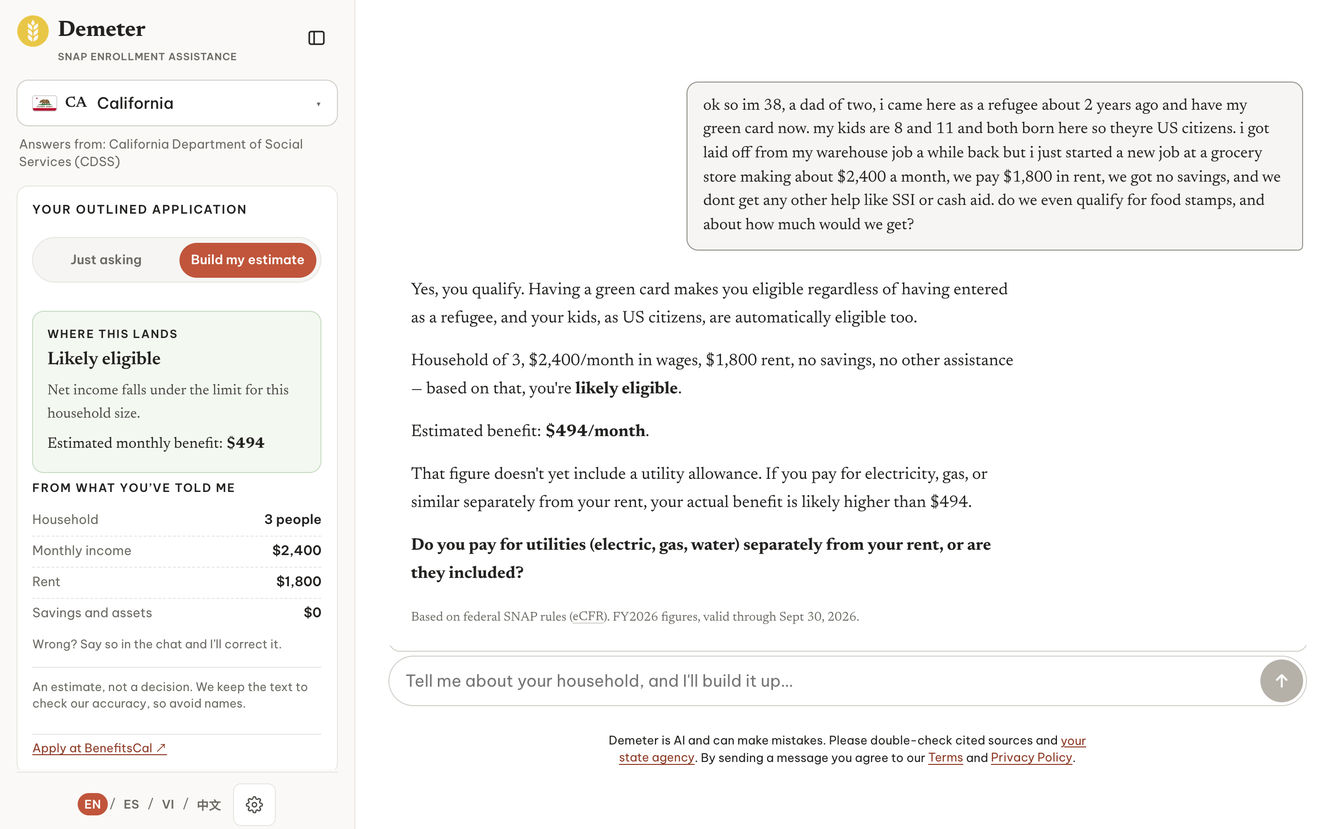
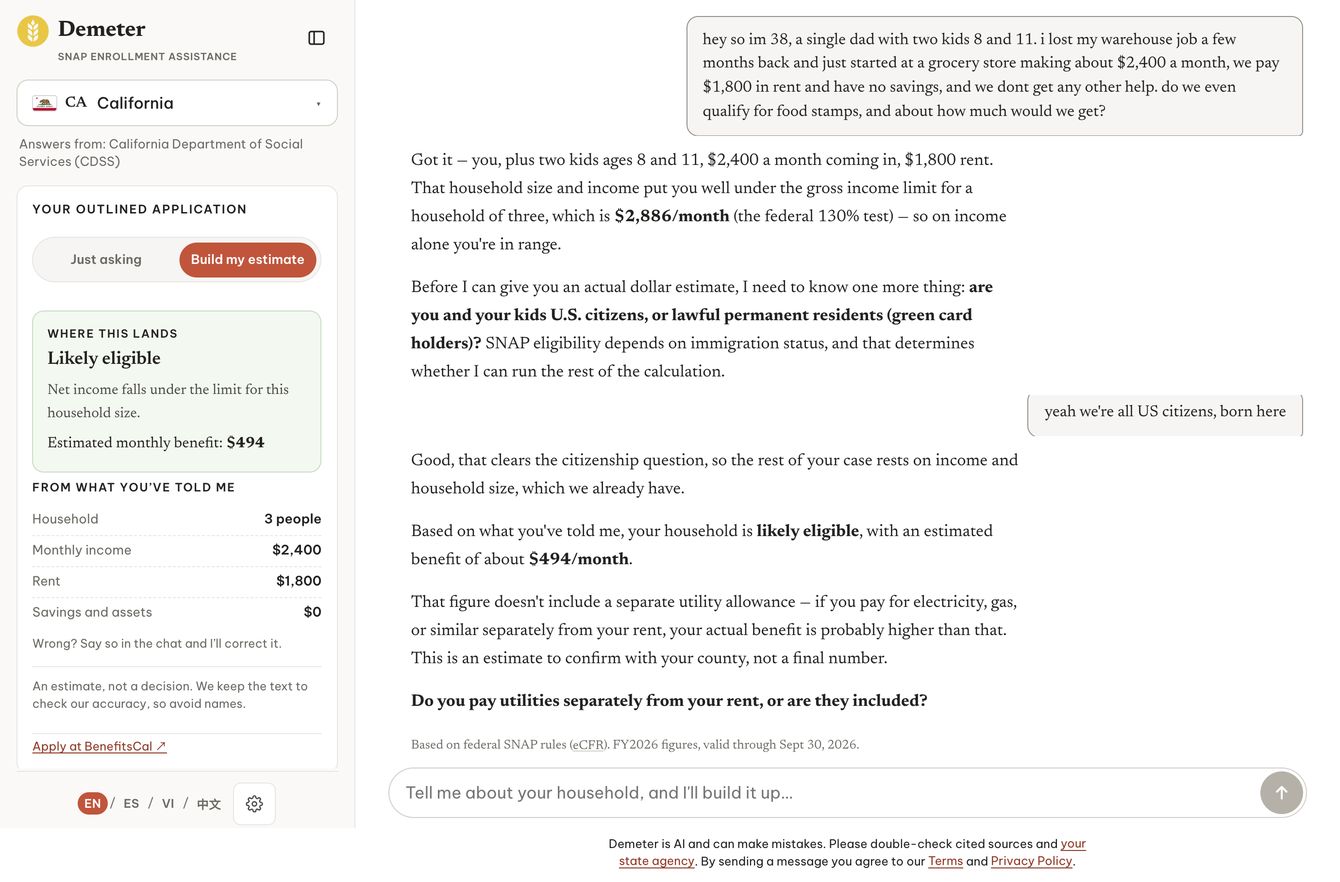
feat(cra-artifact): wage-only demo, full conversation, layout + copy polish
Page 3 demo recaptured as a WAGE-ONLY, all-US-citizen scenario (single dad,
grocery-store job) so it carries no H.R.1 noncitizen exposure. It shows the full
conversation — income reasoning ("well under the CA gross limit"), the honest
citizenship gate, and the Likely eligible + $494 answer — bordered, with an 8-item
intent legend that now also covers the running record ("From what you've told me")
and the guiding chat-bar prompt ("Guides the next answer").

Other polish across the deck:
- Page 1: larger PUMA neighborhood labels and a larger state locator; credit-
  outcome stats centered; footer trimmed by a line.
- Page 1 table: "Our ask" -> "Campaign funding ask".
- Page 2: sections respaced to use the full page (no bottom gap); colon before
  "the same service"; "submitted, accurate application".
- Page 4: quarterly-report rows given more row height.
- Global: tight em-dashes (no surrounding spaces) across template + inputs;
  page-3 title -> "The product, as delivered"; QR line no longer breaks mid-URL.

Note: a literal CERTAIN badge is intentionally not shown — the product's
confidence label is non-deterministic and does not co-occur cleanly with a good
estimate answer; the sourcing footer + calibration ("estimate to confirm") carry
the confidence signal honestly instead.

diff --git a/tools/cra-artifact/templates/artifact.html b/tools/cra-artifact/templates/artifact.html
@@ -1,5 +1,5 @@
 <!doctype html>
-<html><head><meta charset="utf-8"><title>[[org_name]] — [[bank_name]]</title>
+<html><head><meta charset="utf-8"><title>[[org_name]]—[[bank_name]]</title>
 <link rel="preconnect" href="https://fonts.googleapis.com">
 <link rel="preconnect" href="https://fonts.gstatic.com" crossorigin>
 <link href="https://fonts.googleapis.com/css2?family=Newsreader:opsz,wght@6..72,400;6..72,500;6..72,600&family=Be+Vietnam+Pro:wght@400;500;600&display=swap" rel="stylesheet">
@@ -27,7 +27,7 @@
   .pagefoot { border-top:1px solid var(--rule); margin-top:auto; padding-top:8px; font-size:6.8pt; line-height:1.5; color:var(--muted); }
   .pagenum { position:absolute; bottom:.18in; left:.7in; right:.7in; text-align:center; font-size:7pt; letter-spacing:.12em; color:var(--muted); }
 
-  /* ---------- Page 1 — the need ---------- */
+  /* ---------- Page 1—the need ---------- */
   /* body-zone fills the space between letterhead and footer and distributes the
      three blocks (head cluster, numbers, evidence) so slack spreads evenly
      instead of pooling at the bottom. */
@@ -72,7 +72,7 @@
   .geomap svg { width:100%; height:auto; display:block; }
   .geo-bars svg { width:100%; height:auto; display:block; }
   .geo-loc { display:flex; align-items:center; gap:7px; margin-top:5px; }
-  .geo-loc svg { width:92px; height:auto; flex:none; }
+  .geo-loc svg { width:124px; height:auto; flex:none; }
   .geo-loc span { font-size:6.6pt; line-height:1.35; color:var(--muted); }
   .geo-src { font-size:6.6pt; line-height:1.4; color:var(--muted); margin-top:5px; }
   /* Inside .aa-context the CDSS quotes are a sub-part of the geographic-focus
@@ -93,19 +93,19 @@
   /* Geographic focus + the CDSS evidence read as one assessment-area section:
      a single accent rule opens the group, both parts sit beneath it. */
   .aa-context { border-top:1.5px solid var(--accent); margin-top:8px; padding-top:7px; }
-  /* "What SNAP is" — plain explainer, its own section above the research box */
+  /* "What SNAP is"—plain explainer, its own section above the research box */
   .why { border-top:1.5px solid var(--accent); margin-top:9px; padding-top:8px; }
   .why-cap { font-size:7.8pt; letter-spacing:.09em; text-transform:uppercase; font-weight:600; color:var(--accent-deep); margin-bottom:5px; }
   .why p { font-family:'Newsreader',serif; font-size:11pt; line-height:1.4; color:var(--ink); max-width:6.7in; }
 
-  /* ---------- Page 2 — program + ask ---------- */
+  /* ---------- Page 2—program + ask ---------- */
   .cred { font-family:'Newsreader',serif; font-size:12.5pt; line-height:1.5; color:var(--ink); margin-top:14px; max-width:6.4in; }
   .thesis { font-family:'Newsreader',serif; font-size:11.5pt; line-height:1.34; color:var(--ink); margin-top:6px; max-width:6.7in; }
-  .body-block { font-size:10pt; line-height:1.48; color:var(--body); margin-top:8px; max-width:6.5in; }
+  .body-block { font-size:10pt; line-height:1.52; color:var(--body); margin-top:14px; max-width:6.5in; }
   .body-block h3 { font-family:'Newsreader',serif; font-size:13pt; font-weight:600; color:var(--ink); margin-bottom:4px; }
-  /* Provenance line — one quiet, substantiable statement of why the analysis
+  /* Provenance line—one quiet, substantiable statement of why the analysis
      here is Civica's own work (reviewer ask). No traction claim. */
-  .provenance { font-size:9pt; line-height:1.42; color:var(--body); margin-top:5px; max-width:6.5in; text-wrap:pretty; }
+  .provenance { font-size:9pt; line-height:1.46; color:var(--body); margin-top:15px; max-width:6.5in; text-wrap:pretty; }
   .body-block .run-in { color:var(--ink); font-weight:600; }
   .provenance b { color:var(--ink); font-weight:600; }
   /* Research aside: a shaded box marks it as supporting external evidence,
@@ -114,14 +114,14 @@
   .research { background:var(--tint); border:1px solid var(--rule); border-radius:3px; margin-top:9px; padding:8px 13px; }
   .research .rlabel { font-size:7.8pt; letter-spacing:.09em; text-transform:uppercase; color:var(--accent-deep); font-weight:600; }
   .rstats { display:flex; gap:.36in; margin-top:8px; }
-  .rstats > div { flex:1; }
+  .rstats > div { flex:1; text-align:center; }
   /* Subordinated: these are external research figures, not Civica's own
      outcomes, so the numerals sit below the page's need hero in weight. */
   .rstats b { display:block; font-family:'Newsreader',serif; font-size:13.5pt; font-weight:600; line-height:1; color:var(--body); font-variant-numeric:tabular-nums; }
   .rstats span { display:block; font-size:8pt; line-height:1.4; color:var(--muted); margin-top:6px; text-wrap:balance; }
   .rsrc { font-size:7.4pt; line-height:1.45; color:var(--muted); margin-top:9px; max-width:6.6in; }
-  .tiers { display:flex; gap:.22in; margin-top:5px; }
-  .tier { flex:1; border:1px solid var(--rule); border-top:3px solid var(--accent); border-radius:2px; padding:12px; }
+  .tiers { display:flex; gap:.22in; margin-top:17px; }
+  .tier { flex:1; border:1px solid var(--rule); border-top:3px solid var(--accent); border-radius:2px; padding:15px 12px; }
   .tier.lead { background:var(--tint); }
   .tier .name { font-size:8pt; letter-spacing:.08em; text-transform:uppercase; color:var(--muted); font-weight:600; }
   .tier .amt { font-family:'Newsreader',serif; font-size:15.5pt; font-weight:600; color:var(--ink); margin-top:3px; white-space:nowrap; }
@@ -132,7 +132,7 @@
   .close .close-line { font-family:'Newsreader',serif; font-size:12.5pt; font-weight:500; color:var(--ink); max-width:4.6in; line-height:1.3; }
   .close .who { font-size:9.5pt; color:var(--body); text-align:right; white-space:nowrap; }
   .brightline { font-size:8pt; color:var(--muted); max-width:6.6in; }
-  .crafile { border:1px solid var(--rule-strong); border-radius:2px; background:var(--tint); padding:6px 14px; margin-top:5px; }
+  .crafile { border:1px solid var(--rule-strong); border-radius:2px; background:var(--tint); padding:9px 14px; margin-top:16px; }
   .crafile-cap { font-size:7.8pt; letter-spacing:.09em; text-transform:uppercase; font-weight:600; color:var(--accent-deep); margin-bottom:5px; }
   .cra-dl { width:100%; border-collapse:collapse; }
   .cra-dl td { font-size:8.4pt; line-height:1.38; color:var(--body); padding:3px 0; vertical-align:middle; border-bottom:1px solid var(--rule); }
@@ -142,7 +142,7 @@
   /* page-3 projection banner */
   .projwarn { font-size:9pt; letter-spacing:.06em; text-transform:uppercase; font-weight:600; color:var(--accent-deep); margin-top:10px; }
 
-  /* ---------- Page 3 — appendix (PROJECTED sample + methodology) ---------- */
+  /* ---------- Page 3—appendix (PROJECTED sample + methodology) ---------- */
   .chip { display:inline-block; background:var(--accent); color:#fff; font-size:8pt; font-weight:600; letter-spacing:.08em; padding:3px 9px; border-radius:2px; text-transform:uppercase; vertical-align:middle; margin-left:8px; }
   .projected-wrap { position:relative; margin-top:9px; }
   /* projected sample table header reads as a tinted band; the "· projected"
@@ -153,7 +153,7 @@
   .funnel-note { font-size:8.8pt; line-height:1.4; color:var(--ink); font-weight:500; margin-top:5px; }
   table.report th { background:var(--tint); border-bottom:2px solid var(--rule-strong); font-size:8.4pt; font-weight:600; text-align:right; padding:5px 9px; color:var(--ink); }
   table.report th:first-child { text-align:left; }
-  table.report td { border-bottom:1px solid var(--rule); font-size:8.8pt; text-align:right; padding:2px 9px; }
+  table.report td { border-bottom:1px solid var(--rule); font-size:8.8pt; text-align:right; padding:4.5px 9px; }
   table.report td:first-child { text-align:left; color:var(--body); }
   table.report tbody tr:not(.band) td:first-child { padding-left:20px; }
   table.report tr.band td { background:var(--tint); font-size:7.2pt; letter-spacing:.07em; text-transform:uppercase; text-align:left; color:var(--muted); font-weight:600; padding:2.4px 9px; }
@@ -169,19 +169,19 @@
   .appx ul { list-style:none; margin-top:3px; }
   .appx li { margin-top:2px; padding-left:10px; position:relative; }
   .appx li::before { content:""; position:absolute; left:0; top:.55em; width:4px; height:4px; background:var(--accent); border-radius:50%; }
-  /* Plain framed callout (matches .crafile), not a left-accent card — the
+  /* Plain framed callout (matches .crafile), not a left-accent card—the
      colored-left-rail card is a DEMETER-DESIGN AI-slop pattern. */
   .disclose { border:1px solid var(--rule-strong); border-radius:2px; background:var(--tint); padding:6px 11px; font-size:8.1pt; line-height:1.38; color:var(--body); margin-top:5px; text-wrap:pretty; }
   .disclose strong { color:var(--ink); }
-  /* Page 3 — the platform, as built (annotated real screenshot) */
+  /* Page 3—the platform, as built (annotated real screenshot) */
   .platform-hero { margin-top:6px; }
   /* The demo bleeds past the text column toward the page edges (the .page has a
-     .7in side margin) so it reads bigger; only the image bleeds — caption and
+     .7in side margin) so it reads bigger; only the image bleeds—caption and
      legend stay in the column. */
   .chatshot { position:relative; margin:0 -0.32in; }
-  .chatshot > img { width:100%; height:100%; display:block; border-radius:4px; object-fit:cover; }
+  .chatshot > img { width:100%; height:100%; display:block; border:1px solid var(--rule-strong); border-radius:5px; object-fit:cover; }
   /* Numbered markers sit ON the screenshot; the legend below explains the intent.
-     A crisp ring (border only — no blurred shadow, which a PDF rasterizes as a
+     A crisp ring (border only—no blurred shadow, which a PDF rasterizes as a
      gray square) keeps the badge circular on any background. */
   .chatshot .cmark { position:absolute; width:19px; height:19px; margin:-9.5px 0 0 -9.5px;
     border-radius:50%; background:var(--wheat); color:#3a2a08;
@@ -202,18 +202,19 @@
   .qrbox { display:flex; align-items:center; gap:9px; padding:7px 8px; border:1px solid var(--rule-strong); border-radius:3px; background:var(--tint); }
   .qrbox .qr { width:62px; flex:none; }
   .qrbox .qr svg { width:100%; height:auto; display:block; }
-  .qr-txt { font-size:8.2pt; line-height:1.35; color:var(--body); }
+  .qr-txt { font-size:7.8pt; line-height:1.4; color:var(--body); }
   .qr-txt strong { color:var(--ink); }
+  .qr-txt .url { white-space:nowrap; }
   .affil { margin-top:7px; font-size:8pt; line-height:1.4; color:var(--muted); text-wrap:pretty; }
 </style></head><body>
 
-<!-- PAGE 1 — the need -->
+<!-- PAGE 1—the need -->
 <div class="page">
   <div class="letterhead"><div class="org">[[org_name]] · [[program_name]]</div><div class="doc">Prepared for [[bank_name]] · [[prepared_date]]</div></div>
   <div class="body-zone">
     <div class="zone-head">
       <div class="big serif">[[headline_unenrolled]]</div>
-      <div class="head-sentence">eligible residents of <em>your assessment area</em> are not enrolled in [[program_ref]] &mdash; an estimated <em>[[benefit_range]] a year</em> in unclaimed federal nutrition dollars that would be spent in [[aa_label]] grocery stores.</div>
+      <div class="head-sentence">eligible residents of <em>your assessment area</em> are not enrolled in [[program_ref]]&mdash;an estimated <em>[[benefit_range]] a year</em> in unclaimed federal nutrition dollars that would be spent in [[aa_label]] grocery stores.</div>
       [[ratio_line]]
     </div>
     <div class="needrow">
@@ -223,14 +224,14 @@
           <tr><td class="k">Eligible residents (est.)</td><td class="v">[[eligible_fmt]]<small>income-eligible for SNAP</small></td></tr>
           <tr><td class="k">Eligible, not enrolled</td><td class="v">[[headline_unenrolled]]<small>[[aa_unenrolled_pct]]% at USDA's participation rate</small></td></tr>
           <tr><td class="k">Benefit per household</td><td class="v">$[[benefit_monthly]]/mo<small>per eligible household</small></td></tr>
-          <tr class="ask"><td class="k">Our ask</td><td class="v">$[[ask_fmt]]</td></tr>
+          <tr class="ask"><td class="k">Campaign funding ask</td><td class="v">$[[ask_fmt]]</td></tr>
         </table>
       </div>
       <div class="colbrk">[[aa_geo_visual]]</div>
     </div>
     <div class="why">
       <div class="why-cap">What SNAP is</div>
-      <p>SNAP &mdash; the Supplemental Nutrition Assistance Program, commonly known as food stamps &mdash; is monthly grocery money for low- and moderate-income households. Most people who qualify but never enroll are stopped by the process, not the rules. Civica's free assistant answers their questions in plain language and guides them through the application.</p>
+      <p>SNAP&mdash;the Supplemental Nutrition Assistance Program, commonly known as food stamps&mdash;is monthly grocery money for low- and moderate-income households. Most people who qualify but never enroll are stopped by the process, not the rules. Civica's free assistant answers their questions in plain language and guides them through the application.</p>
     </div>
     <div class="research">
       <div class="rlabel">SNAP access and household finances</div>
@@ -246,19 +247,19 @@
   <div class="pagenum">1 / 4</div>
 </div>
 
-<!-- PAGE 2 — the program + the ask -->
+<!-- PAGE 2—the program + the ask -->
 <div class="page">
   <div class="letterhead"><div class="org">[[org_name]] · [[program_name]]</div><div class="doc">Prepared for [[bank_name]] · [[prepared_date]]</div></div>
   <h2 class="pagehead">A benefits-access pilot for [[bank_name]]</h2>
   <div class="thesis">It combines the reach of a media campaign with the accuracy of a one-on-one assister, and every answer traces to the governing rule.</div>
-  <div class="body-block"><b class="run-in">The program.</b> Civica provides free [[program_ref]] application assistance across your assessment area, the same service a county-designated assister or food-bank navigator provides. Geo-targeted outreach invites residents in the highest-need tracts: "You may qualify for [[program_ref]]. Check in 5 minutes." The assistant answers from [[state_name]]'s SNAP rules and guides them to a submitted application. Because its marginal cost is near zero, a single grant covers the whole assessment area.
+  <div class="body-block"><b class="run-in">The program.</b> Civica provides free [[program_ref]] application assistance across your assessment area: the same service a county-designated assister or food-bank navigator provides. Geo-targeted outreach invites residents in the highest-need tracts: "You may qualify for [[program_ref]]. Check in 5 minutes." The assistant answers from [[state_name]]'s SNAP rules and guides them to a submitted, accurate application. Because its marginal cost is near zero, a single grant covers the whole assessment area.
   </div>
   <div class="provenance"><b>Why Civica.</b> [[credibility_line]]</div>
   [[bank_specific_block]]
   <div class="crafile">
     <div class="crafile-cap">For [[bank_name]]'s community-reinvestment file</div>
     <table class="cra-dl">
-      <tr><td class="l">Activity</td><td>[[program_ref]] benefits-access outreach and application assistance in your assessment area — a community-development activity (community services targeted to LMI individuals under [[cra_rule_cite]]). Funded as a grant, it is a qualified community-development investment, assessed under the investment test.</td></tr>
+      <tr><td class="l">Activity</td><td>[[program_ref]] benefits-access outreach and application assistance in your assessment area—a community-development activity (community services targeted to LMI individuals under [[cra_rule_cite]]). Funded as a grant, it is a qualified community-development investment, assessed under the investment test.</td></tr>
       <tr><td class="l">Beneficiaries</td><td>Low- and moderate-income residents. The federal Interagency Q&amp;A names USDA's Supplemental Nutrition Assistance programs as an accepted LMI proxy (Q&amp;A §&#8239;__.12(g)(2)&#8211;1; 81 FR 48506, 48526, July 25, 2016), so no household-level income documentation is required.</td></tr>
       <tr><td class="l">Geographic nexus</td><td>Delivered and measured within [[bank_name]]'s delineated assessment area, documented by county. Where banks share geography, we document a per-tract allocation, so nothing is double-counted.</td></tr>
       <tr><td class="l">Documentation</td><td>A quarterly report of ad delivery, eligibility checks, and applications started and submitted (all by county), plus a one-page qualification memo citing the CRA category and the governing rule, and an annual exam-file summary. Prepared for your file.</td></tr>
@@ -271,24 +272,24 @@
     <div class="tier"><div class="name">Program Grant</div><div class="amt">$30,000–50,000</div><div class="desc">Full coverage plus added depth and a year-end exam-file summary.</div></div>
   </div>
   <div class="close">
-    <div class="close-line">Let's book a 30-minute call to walk through the program, how the grant is applied, and the exam-file documentation. Reply with a few times that work this month.</div>
+    <div class="close-line">A 30-minute call covers the program, how the grant applies, and the exam-file documentation.</div>
     <div class="who">[[contact_name]], [[contact_title]]<br>[[contact_email]][[contact_phone_line]]</div>
   </div>
   <div class="pagenum">2 / 4</div>
 </div>
 
-<!-- PAGE 3 — the platform, as built (product evidence) -->
+<!-- PAGE 3—the platform, as built (product evidence) -->
 <div class="page">
   <div class="letterhead"><div class="org">[[org_name]] · [[program_name]]</div><div class="doc">Prepared for [[bank_name]] · [[prepared_date]]</div></div>
-  <h2 class="pagehead" style="margin-top:22px;">The platform, as built</h2>
-  <div class="thesis" style="margin-top:8px;">The working system behind the pilot &mdash; a rules-grounded assistant, not a general chatbot.</div>
+  <h2 class="pagehead" style="margin-top:22px;">The product, as delivered</h2>
+  <div class="thesis" style="margin-top:8px;">The working system behind the pilot&mdash;a rules-grounded assistant, not a general chatbot.</div>
   <div class="evidence-foot" style="border-top:none; margin-top:9px; padding-top:0;">
     <div class="ev-text">
-      <p><strong>Built-in limits.</strong> Makes no eligibility determination &mdash; routes decisions to the county or 2-1-1. Redacts personal data before it leaves the system; never asks for an SSN, DOB, or account number; carries crisis and DV lines. Resident data is never shared with the bank, no products are marketed, and question text auto-purges (7/30 days).</p>
+      <p><strong>Built-in limits.</strong> Makes no eligibility determination&mdash;routes decisions to the county or 2-1-1. Redacts personal data before it leaves the system; never asks for an SSN, DOB, or account number; carries crisis and DV lines. Resident data is never shared with the bank, no products are marketed, and question text auto-purges (7/30 days).</p>
       <p><strong>Independently checkable.</strong> A graded ~600-question set across all 53 jurisdictions (adversarial and crisis cases included), re-run on every rules change, and offered to your compliance team to run themselves. Corpus: eCFR plus 53 packs, dated provenance[[me_audit_clause]]; 120-day refresh.</p>
     </div>
     <div class="ev-side">
-      <div class="qrbox"><div class="qr">[[qr_chat_svg]]</div><div class="qr-txt"><strong>Try it.</strong> Scan, or<br>civica-applicant.vercel.app/chat</div></div>
+      <div class="qrbox"><div class="qr">[[qr_chat_svg]]</div><div class="qr-txt"><strong>Try it.</strong> Scan, or visit<br><span class="url">civica-applicant.vercel.app/chat</span></div></div>
       <div class="affil">Civica was accepted into the Harvard Innovation Labs incubator, where the initial study was conducted.</div>
     </div>
   </div>
@@ -303,7 +304,7 @@
   <div class="pagenum">3 / 4</div>
 </div>
 
-<!-- PAGE 4 — appendix: PROJECTED sample report + methodology (detach as needed) -->
+<!-- PAGE 4—appendix: PROJECTED sample report + methodology (detach as needed) -->
 <div class="page">
   <div class="letterhead"><div class="org">[[org_name]] · [[program_name]]</div><div class="doc">Prepared for [[bank_name]] · [[prepared_date]]</div></div>
   <div class="eyebrow" style="margin-top:20px;">Appendix for your [[regulator]] examination · sample + methodology</div>
@@ -336,7 +337,7 @@
       <h3>Measurement</h3>
       <ul>
         <li><strong>The engine:</strong> the same assistant shown on page 3. Every number below is a recorded system event from it.</li>
-        <li><strong>What we count:</strong> ad delivery reconciled to invoices, plus sessions, eligibility checks, and applications started and submitted — all recorded system events. This alone carries the CRA documentation.</li>
+        <li><strong>What we count:</strong> ad delivery reconciled to invoices, plus sessions, eligibility checks, and applications started and submitted—all recorded system events. This alone carries the CRA documentation.</li>
         <li><strong>What we ask afterward:</strong> an opt-in 30/60-day check-in; we disclose the response rate and report outcomes only for those who respond, without extrapolating.</li>
         <li><strong>What we check ourselves against:</strong> the state's published county caseload for direction rather than attribution; even at pilot scale, a staggered tract rollout so the quarter yields an attributable estimate, not just a funnel count.</li>
       </ul>

diff --git a/tools/cra-artifact/src/generate.py b/tools/cra-artifact/src/generate.py
@@ -90,7 +90,7 @@ def render(template: str, values: dict) -> str:
 
 
 def build_county_breakdown(covered_counties, metrics, cap=6):
-    """Ranked per-county unmet-need bars — the regional insight a flat AA
+    """Ranked per-county unmet-need bars—the regional insight a flat AA
     choropleth can't carry (which counties actually drive the need).
 
     Presentation only: reads the same county metrics the score uses, never
@@ -150,7 +150,7 @@ def build_values(bank, assumptions, org, metrics, meta):
                       + (" Counties" if len(bank["aa_counties"]) > 1 else " County"))
     why_this_bank = (
         f"We run and measure the program only inside {bank['name']}'s CRA "
-        f"assessment area ({counties_plain}) — the same geography your Performance "
+        f"assessment area ({counties_plain})—the same geography your Performance "
         "Evaluation already covers."
     )
     # Plain-language funnel conversion for the page-3 sample report: normalizes the
@@ -167,7 +167,7 @@ def build_values(bank, assumptions, org, metrics, meta):
                    f"check, ~{_sub:.0f} submit an application, and ~{_appr:.0f} are approved.")
     # Credibility line (reviewer ask): a single substantiable sentence on why
     # the analysis here is Civica's own work, not vendor boilerplate. State-aware
-    # on two axes — CA carries a trained model (AUC) AND the CDSS ME review;
+    # on two axes—CA carries a trained model (AUC) AND the CDSS ME review;
     # every other state is a direct survey-weighted estimate with neither, so
     # the CDSS clause must never appear off-CA (mirrors the CalFresh trap). No
     # traction/delivery number is asserted here by design.
@@ -185,7 +185,7 @@ def build_values(bank, assumptions, org, metrics, meta):
             "estimate built directly from 2023 federal ACS microdata, "
             "reproducible from public sources."
         )
-    # (The product itself — the rule-grounded conversational assistant — is
+    # (The product itself—the rule-grounded conversational assistant—is
     # already described in "The program" section above, so the credibility line
     # no longer repeats it.)
     # Optional per-bank "Why this bank specifically" callout: a fully-sourced,
@@ -194,7 +194,7 @@ def build_values(bank, assumptions, org, metrics, meta):
     # every other bank renders nothing here.
     _bank_note = bank.get("bank_specific_note", "").strip()
     bank_specific_block = (
-        f'<div class="provenance" style="margin-top:8px;"><b>Why {bank["name"]}.'
+        f'<div class="provenance" style="margin-top:11px;"><b>Why {bank["name"]}.'
         f'</b> {_bank_note}</div>' if _bank_note else "")
     # Page-3 hero: a REAL captured screenshot of the live assistant, referenced by
     # file:// URI so Chrome embeds it into the PDF without a giant base64 blob in
@@ -204,23 +204,25 @@ def build_values(bank, assumptions, org, metrics, meta):
     # Page-3 annotated screenshot. CA carries a tightly-cropped capture (aspect
     # 2760x1545) with leader-line callouts on the state selector, the live
     # estimate, the building outline, and the cited answer. FL still uses its
-    # earlier full-height capture without callouts (couldn't recapture — the live
+    # earlier full-height capture without callouts (couldn't recapture—the live
     # product's daily question cap was reached); both render correctly because
     # the aspect ratio and the overlay are state-specific.
     if state == "CA":
-        chat_aspect = "2760/1707"
+        chat_aspect = "2760/1818"
         # Numbered markers sit ON the screenshot; the legend beneath it explains
         # the INTENT behind each simple feature (not a caption of what's shown).
         # (x,y) is the marker centre in % of the image box; the order matches the
         # legend. Small numbers avoid the leader-line/label overlap of earlier
         # versions.
         _marks = [
-            (23, 12.5),  # 1  state selector (dropdown caret)
-            (24.5, 40),  # 2  WHERE THIS LANDS — likely eligible + $494 (box corner)
-            (96.5, 8),   # 3  the messy question bubble (top-right corner)
-            (52, 45),    # 4  the plain-language answer
-            (30, 74),    # 5  the dated eCFR source line
-            (22, 97),    # 6  right of the four languages
+            (23, 11.5),  # 1  state selector (dropdown caret)
+            (24.5, 38),  # 2  WHERE THIS LANDS—likely eligible + $494 (box corner)
+            (24.5, 60),  # 3  FROM WHAT YOU'VE TOLD ME—the running record
+            (96.5, 3),   # 4  the messy question bubble (top-right corner)
+            (40, 24),    # 5  the plain-language reasoning (income-limit test)
+            (30, 84),    # 6  the dated eCFR source line
+            (34, 90),    # 7  the grayed chat-bar prompt
+            (22, 91),    # 8  right of the four languages
         ]
         chat_overlay = "".join(
             f'<div class="cmark" style="left:{x}%;top:{y}%">{i + 1}</div>'
@@ -228,10 +230,12 @@ def build_values(bank, assumptions, org, metrics, meta):
         _legend = [
             ("State-aware", "SNAP runs through 53 state and territory agencies with different rules; here it answers from California’s (CDSS)."),
             ("A live estimate", "The outline fills in from what the applicant says and lands on a plausible number, so someone unsure can see the stakes before the form."),
+            ("From what you’ve told me", "It keeps a running record of the conversation and shows it back, so nothing is re-asked and the applicant can correct it."),
             ("A messy, real question", "A fixed form can’t hold an edge case like this; plain-language input can, so people don’t self-select out."),
-            ("Answered plainly", "The answer explains the reasoning, not just yes or no — the part of a caseworker’s job that most often gets skipped."),
+            ("Answered plainly", "The answer explains the reasoning, not just yes or no—the part of a caseworker’s job that most often gets skipped."),
             ("Dated and sourced", "Every answer footers the rule set (eCFR) and the fiscal year it is valid through, so a reviewer can check it and it can’t silently go stale."),
-            ("Four languages", "It also answers in Spanish, Vietnamese and Chinese — the largest limited-English-proficient populations California outreach has to reach."),
+            ("Guides the next answer", "The prompt in the box nudges the exact detail that sharpens the estimate, so the applicant knows what to say next."),
+            ("Four languages", "It also answers in Spanish, Vietnamese and Chinese—the largest limited-English-proficient populations California outreach has to reach."),
         ]
         chat_legend = ('<div class="chat-legend">' + "".join(
             f'<div class="leg"><span class="leg-n">{i + 1}</span>'
@@ -256,11 +260,10 @@ def build_values(bank, assumptions, org, metrics, meta):
             recon_note = (
                 "<strong>How we count unmet need:</strong> our eligible-population "
                 "estimate matches USDA's independent California figure within ~1%; "
-                "we apply USDA's published participation rate (81%, FY2022), not "
-                "the ACS model's raw non-enrollment rate, which survey "
-                "under-reporting of SNAP receipt inflates. Federal H.R.1 changes "
-                "effective 2026 (noncitizen, ABAWD) shrink this pool further "
-                "(California LAO, Feb 2026). &nbsp;·&nbsp; ")
+                "we apply USDA's published participation rate (81%, FY2022), not the "
+                "model's raw non-enrollment rate. H.R.1 changes effective 2026 "
+                "(noncitizen, ABAWD) shrink this pool further (California LAO, Feb "
+                "2026). &nbsp;·&nbsp; ")
         else:
             recon_note = (
                 "<strong>How we count unmet need:</strong> we apply USDA's "
@@ -327,7 +330,7 @@ def build_values(bank, assumptions, org, metrics, meta):
         "benefit_monthly": f"{need['avg_household_monthly_usd']:.0f}",
         "data_gaps_note": gaps,
         "ask_fmt": fmt_int(bank["ask_usd"]),
-        # Page-1 documented-access callout (CDSS ME). Presentation only — see
+        # Page-1 documented-access callout (CDSS ME). Presentation only—see
         # access_evidence.py; never feeds need/funnel/score. Empty = silent.
         "me_evidence_block": access_evidence.evidence_html(
             bank["aa_counties"], state=bank.get("state", "CA")),
@@ -393,7 +396,7 @@ def main(argv=None):
     print(f"HTML: {html_path}")
 
     # Numbers the oracle hand-calc (T5e) must independently reproduce:
-    print(f"ORACLE CHECK — {bank['name']}: eligible={need['eligible']:.0f} "
+    print(f"ORACLE CHECK—{bank['name']}: eligible={need['eligible']:.0f} "
           f"unenrolled={need['unenrolled']:.0f} ratio={need['ratio']:.3f} "
           f"benefit_range=({need['benefit_low_usd']:.0f}, {need['benefit_high_usd']:.0f})")
 
@@ -406,7 +409,7 @@ def main(argv=None):
     if args.send:
         if not bank.get("verified"):
             raise UnverifiedBankError(
-                f"{args.bank} has verified:false — re-read the PE and flip the "
+                f"{args.bank} has verified:false—re-read the PE and flip the "
                 "flag before archiving a send copy")
         digest = hashlib.sha256(pdf_path.read_bytes()).hexdigest()[:8]
         sent = TOOL_ROOT / "sent"

diff --git a/tools/cra-artifact/src/pumamap.py b/tools/cra-artifact/src/pumamap.py
@@ -194,13 +194,13 @@ def ranked_bar_svg(aa_counties, state, reconcile_rate=None,
         cy = pad_t + i * row_h + row_h / 2
         bw = max(1.5, bar_max * (v / maxv))
         out.append(
-            f'<text x="0" y="{cy + 2.4:.1f}" font-size="7.6" fill="{INK}" '
+            f'<text x="0" y="{cy + 3.1:.1f}" font-size="9" fill="{INK}" '
             f"font-family=\"'Be Vietnam Pro',sans-serif\">{_esc(_short_name(nm))}</text>")
         out.append(
             f'<rect x="{bar_x:.1f}" y="{cy - bar_h / 2:.1f}" width="{bw:.1f}" '
             f'height="{bar_h:.1f}" rx="1.5" fill="{ACCENT}" class="puma-bar"/>')
         out.append(
-            f'<text x="{bar_x + bw + 4:.1f}" y="{cy + 2.4:.1f}" font-size="7" '
+            f'<text x="{bar_x + bw + 4:.1f}" y="{cy + 3.1:.1f}" font-size="8.2" '
             f'fill="{MUTED}" font-family="\'Be Vietnam Pro\',sans-serif">'
             f'{_fmt_k(v)}</text>')
     return (f'<svg viewBox="0 0 {width} {height}" xmlns="http://www.w3.org/2000/svg" '
@@ -253,7 +253,7 @@ def puma_visual_html(aa_counties, state, model_short, reconcile_rate=None):
     caption = (f"Assessment area within {state_name}. Each bar is a Census PUMA "
                "(~100k residents), shown at USDA's participation rate.")
     return ('<div class="geomap">'
-            '<div class="geo-cap">Eligible but not enrolled &mdash; top neighborhoods</div>'
+            '<div class="geo-cap">Eligible but not enrolled&mdash;top neighborhoods</div>'
             f'<div class="geo-bars">{bars}</div>'
             f'<div class="geo-loc">{loc}<span>{caption}</span></div>'
             '</div>')
